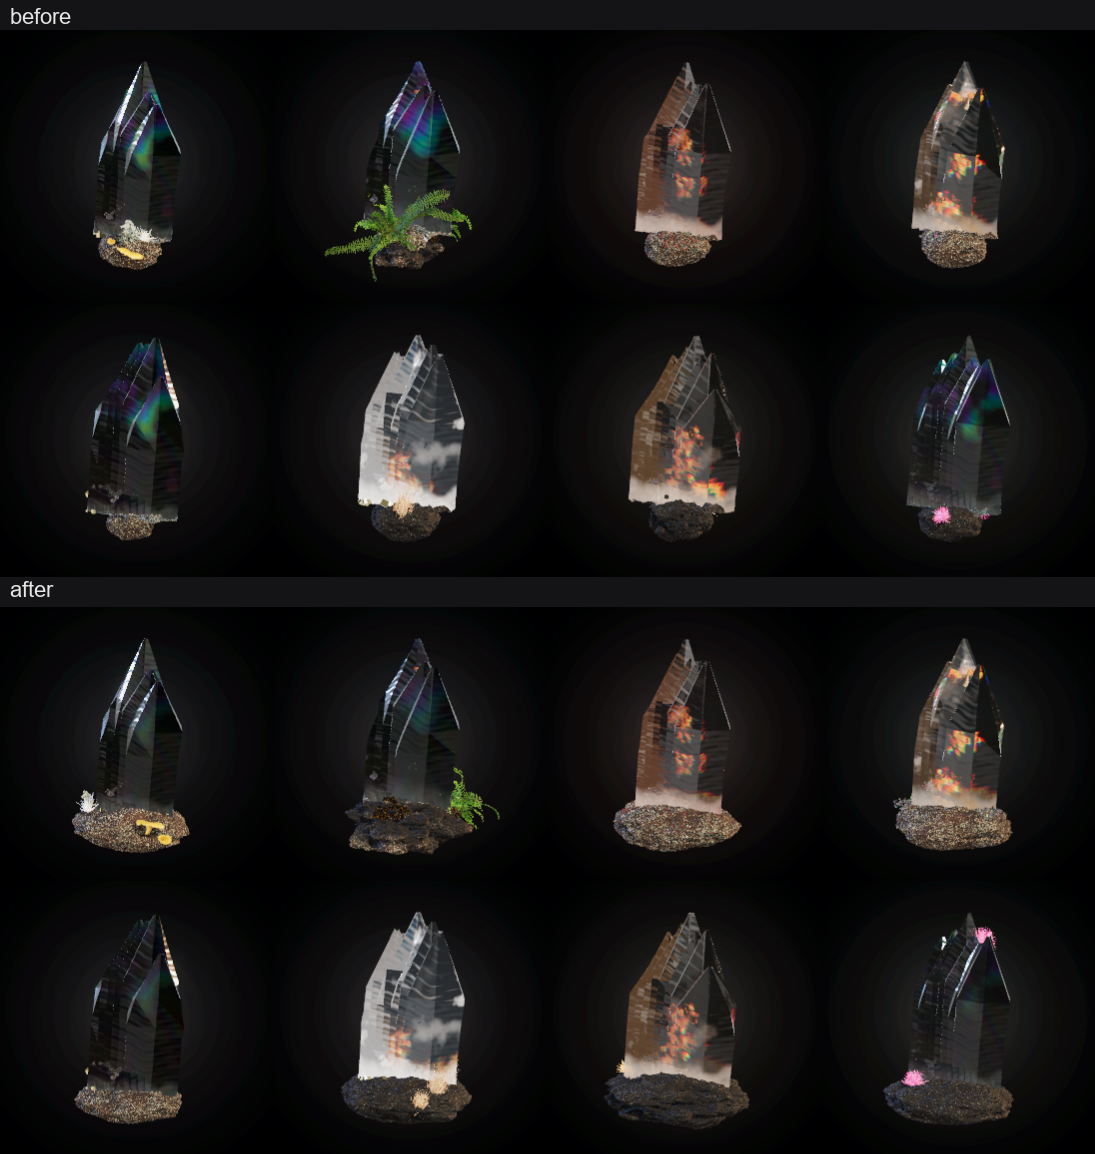
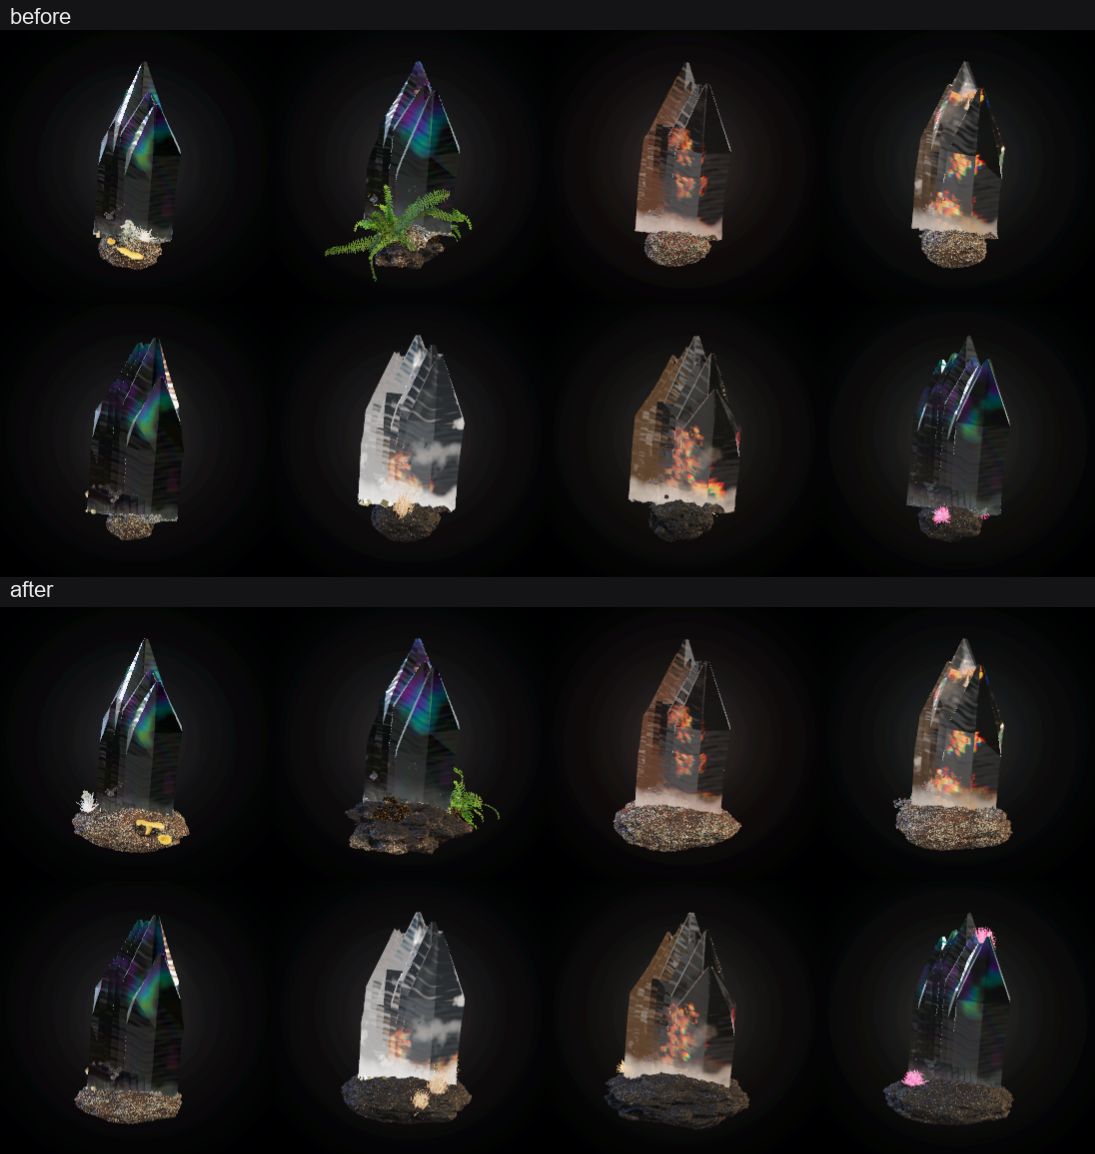
Гвиндель: радужный и зелёный отлив пластин возвращён, порода по ширине ряда осталась

diff --git a/CLAUDE.md b/CLAUDE.md
@@ -59,7 +59,7 @@
 - Экран загрузки (`screens/boot.gd`): анимация камня из файла, прогрев шейдеров, фоновая загрузка.
 
 ## Что дальше
-- 15.11 (`fixes`), **гвиндель дымчатого кварца не на камешке** (скрин: куча спаянных кристаллов на маленьком куске земли): раскладка `gwindel` (ряд сплюснутых повёрнутых кристаллов, у дымчатого кварца 3 из 9 по весу) ставила его на заготовку «small» — пластина в разы шире породы. Теперь порода расширяется под ряд (`_widen_rock` по крайнему кристаллу, до ×2,2); радуга (`holo_k`, `ir_k`) снята со всех пластин, а не только со средней, маслянистый отлив тёмного блеска на них приглушён до 0,25 (зелёно-фиолетовым покрывал всю пластину). До/после — `art/gwindel_ba.png`. Найденные гвиндели меняют вид. На iPhone не проверено.
+- 15.11 (`fixes`), **гвиндель дымчатого кварца не на камешке** (скрин: куча спаянных кристаллов на маленьком куске земли): раскладка `gwindel` (ряд сплюснутых повёрнутых кристаллов, у дымчатого кварца 3 из 9 по весу) ставила его на заготовку «small» — пластина в разы шире породы. Теперь порода расширяется под ряд (`_widen_rock` по крайнему кристаллу, до ×2,2). Зелёный и радужный отлив пластин оставлен (пробовал снять — пользователю нравится: красиво, а не как в природе). До/после — `art/gwindel_ba.png`. Найденные гвиндели меняют вид. На iPhone не проверено.
 - 15.11 (`fixes`), **профиль: рамки за боссов, портреты-награды, карточка шахтёра**: рамка портрета больше не берётся по руднику — у нового игрока стартовая «Pit Props» (сосновые крепи с верёвкой), рамка босса — за победу над ним (после клада окно «A new portrait frame», Wear it / Later, `ProfileCard.award_frame`); на рудниках 5–7 своих рамок нет — стоит выбранная. Модель — `Profile` (`scripts/core/profile.gd`: `FRAMES`, `FACES`, титулы `RANKS` Greenhorn/Digger/Foreman/Mine Captain + Curator/Naturalist/Colourist/Slayer из ачивок, `records`, `showcase`, `fresh` — новое и не просмотренное, точка на портрете), выбор — `Save.d.prof`, просмотренное — `prof_seen`. Тап по портрету в баре — окно Profile (`ProfileCard`, по образцу Royal Match: просмотр и выбор раздельно): по строкам: заголовок, черта; рамка с портретом и карточка лучшей находки (камень в рамке `card`, одного размера с портретом; сверху свисает лента самого дорогого камня — королевская синяя с латунным кубком, `RecordRibbon.cup`, `RecordRibbon.trophy()`; тап по камню — его карточка); под ними кнопка Edit и латунная плашка с именем и ценой; черта Records; итоги — значок, слово, число на тёмной плашке (Wins, Deepest, Species, Bosses). Находка — самый дорогой камень инвентаря (выбор другого убран: это рекорд). Панели вокруг портрета и итогов отклонены («рамка в рамке»). Edit Profile (по Edit или тапу по портрету): предпросмотр (портрет, имя портрета, рамка, титул), вкладки Portrait / Frame / Title, сетка одинаковых тёмных плиток без подписей (надетое — зеленее с галочкой, закрытое — тёмное с замком, тап — подсказка тостом), Done — назад. Портреты (пиксель 48×48, ×3, как рамки боссов): шахтёр, старик (`prologue`), сестра (`s_sister_meet`), брат (`s_proval_gate`), трилобит (ачивка Crystal Eyes) — `assets/ui/kit/face/`. Арт: `art/profile/gen.sh miner|face|frame|mock`, в сетку — `art/profile/pixelize.py frame|face` (печатает окно рамки). Ключи: `ui=profile [ptab=faces|frames|titles]` (с вкладкой — сразу Edit Profile), `beaten ui=award_frame`. Кадры — `art/profile_card.png`. Не сделано: где показывать выбранный титул; золотые рамки за III уровень боссов; рамки ачивок Eye of the Miner / Glimpses. На iPhone не проверено.
 - 15.11 (`fixes`), **бабочка не «съезжает» на место посадки** (жалоба: не найдя места рядом, плавно телепортируется): заход на посадку (`SpecButterfly.Fly._m_land`) переходил к следующему этапу по таймеру, откуда бы бабочка ни была, а касание тянуло её к месту за 0,22 с — 104 из 111 посадок шли по таймеру, треть съезжала больше чем на 2 своих размера (до 9,5). Своими взмахами она почти никогда не попадала в точку. Теперь на подлёте её ведёт к точке (`_m_air`: частично у места зависания, целиком при спуске, не быстрее полёта, взмахи лишь покачивают), касание — только рядом с местом (≤ 0,6 размера по таймеру), а не долетевшая за 6+4 с бросает место и летает дальше (попробует снова). Замер `spec_gallery -- area=0 sp=quartz,amethyst,calcite,fluorite n=2 flies=3 landtrace after=70` (печать `LANDJUMP`/`LANDGIVEUP`): 101 посадка за 70 с, все подлётом, съезд не больше 0,83 размера; стая на черепе (`fx=flutter`) — 13 посадок, съезд ≤ 0,78. Затем (плейтест: планирование стало топорнее): пока бабочка планирует, подлёт её не тянет, на подходе к месту зависания — только ближе 2 размеров и вполсилы; 95 посадок, все подлётом. На iPhone не проверено.
 - 15.11 (`fixes`), **журнал диагностики (♪) подробнее**: первой строкой — сборка (`build <коммит>` из `build_stamp.gd`, на ПК `dev`); возврат из фона — сколько был в фоне («back from the background after 11.3 h»); крошки действий: «-> level 18, Old Adit, 300 m, hard, 15 moves», «<- level won/lost, N moves left, iron +, ore +, coins +, a find», «card: Fluorite, tier 2, 388 coins», «build headframe x3», «dig to 100 m», «claim Matryoshka»; ходы посреди каскада — «at once» или «queued, went off after N ms». Заодно: фоновый прогрев шейдеров заново создаёт свой узел, если сборка картинки очистила студию (ошибка `add_child on a previously freed instance`, spec.gd:104, всплыла в прогоне соседней сессии). Внимание: две игры, запущенные одновременно, пишут в один `diag_run.log`. На iPhone не проверено.
